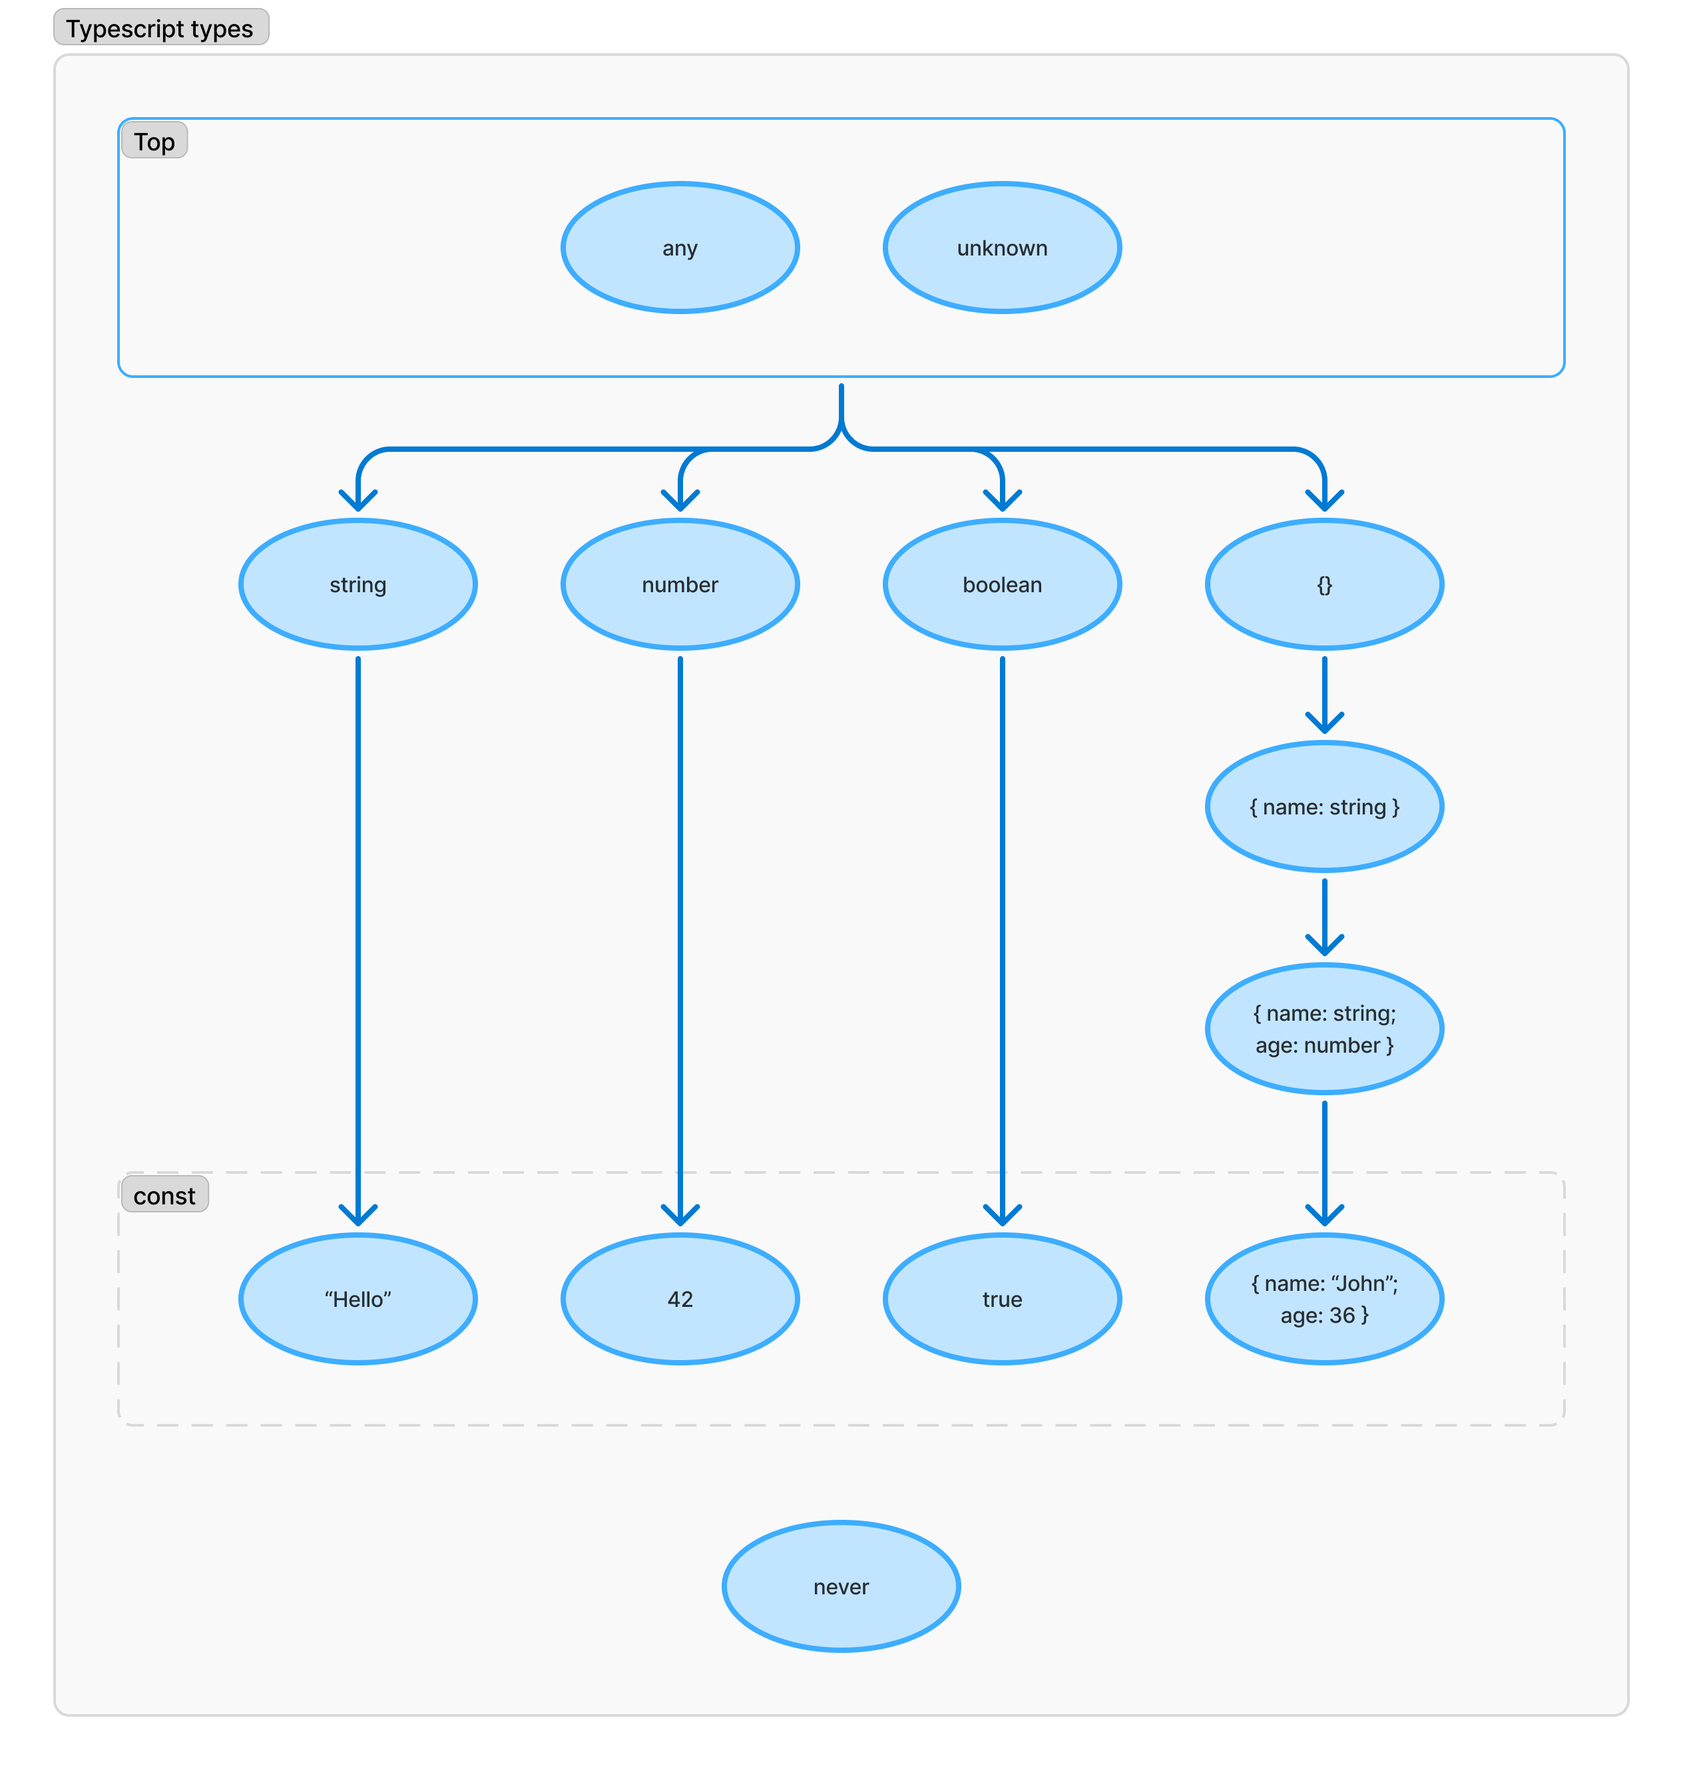
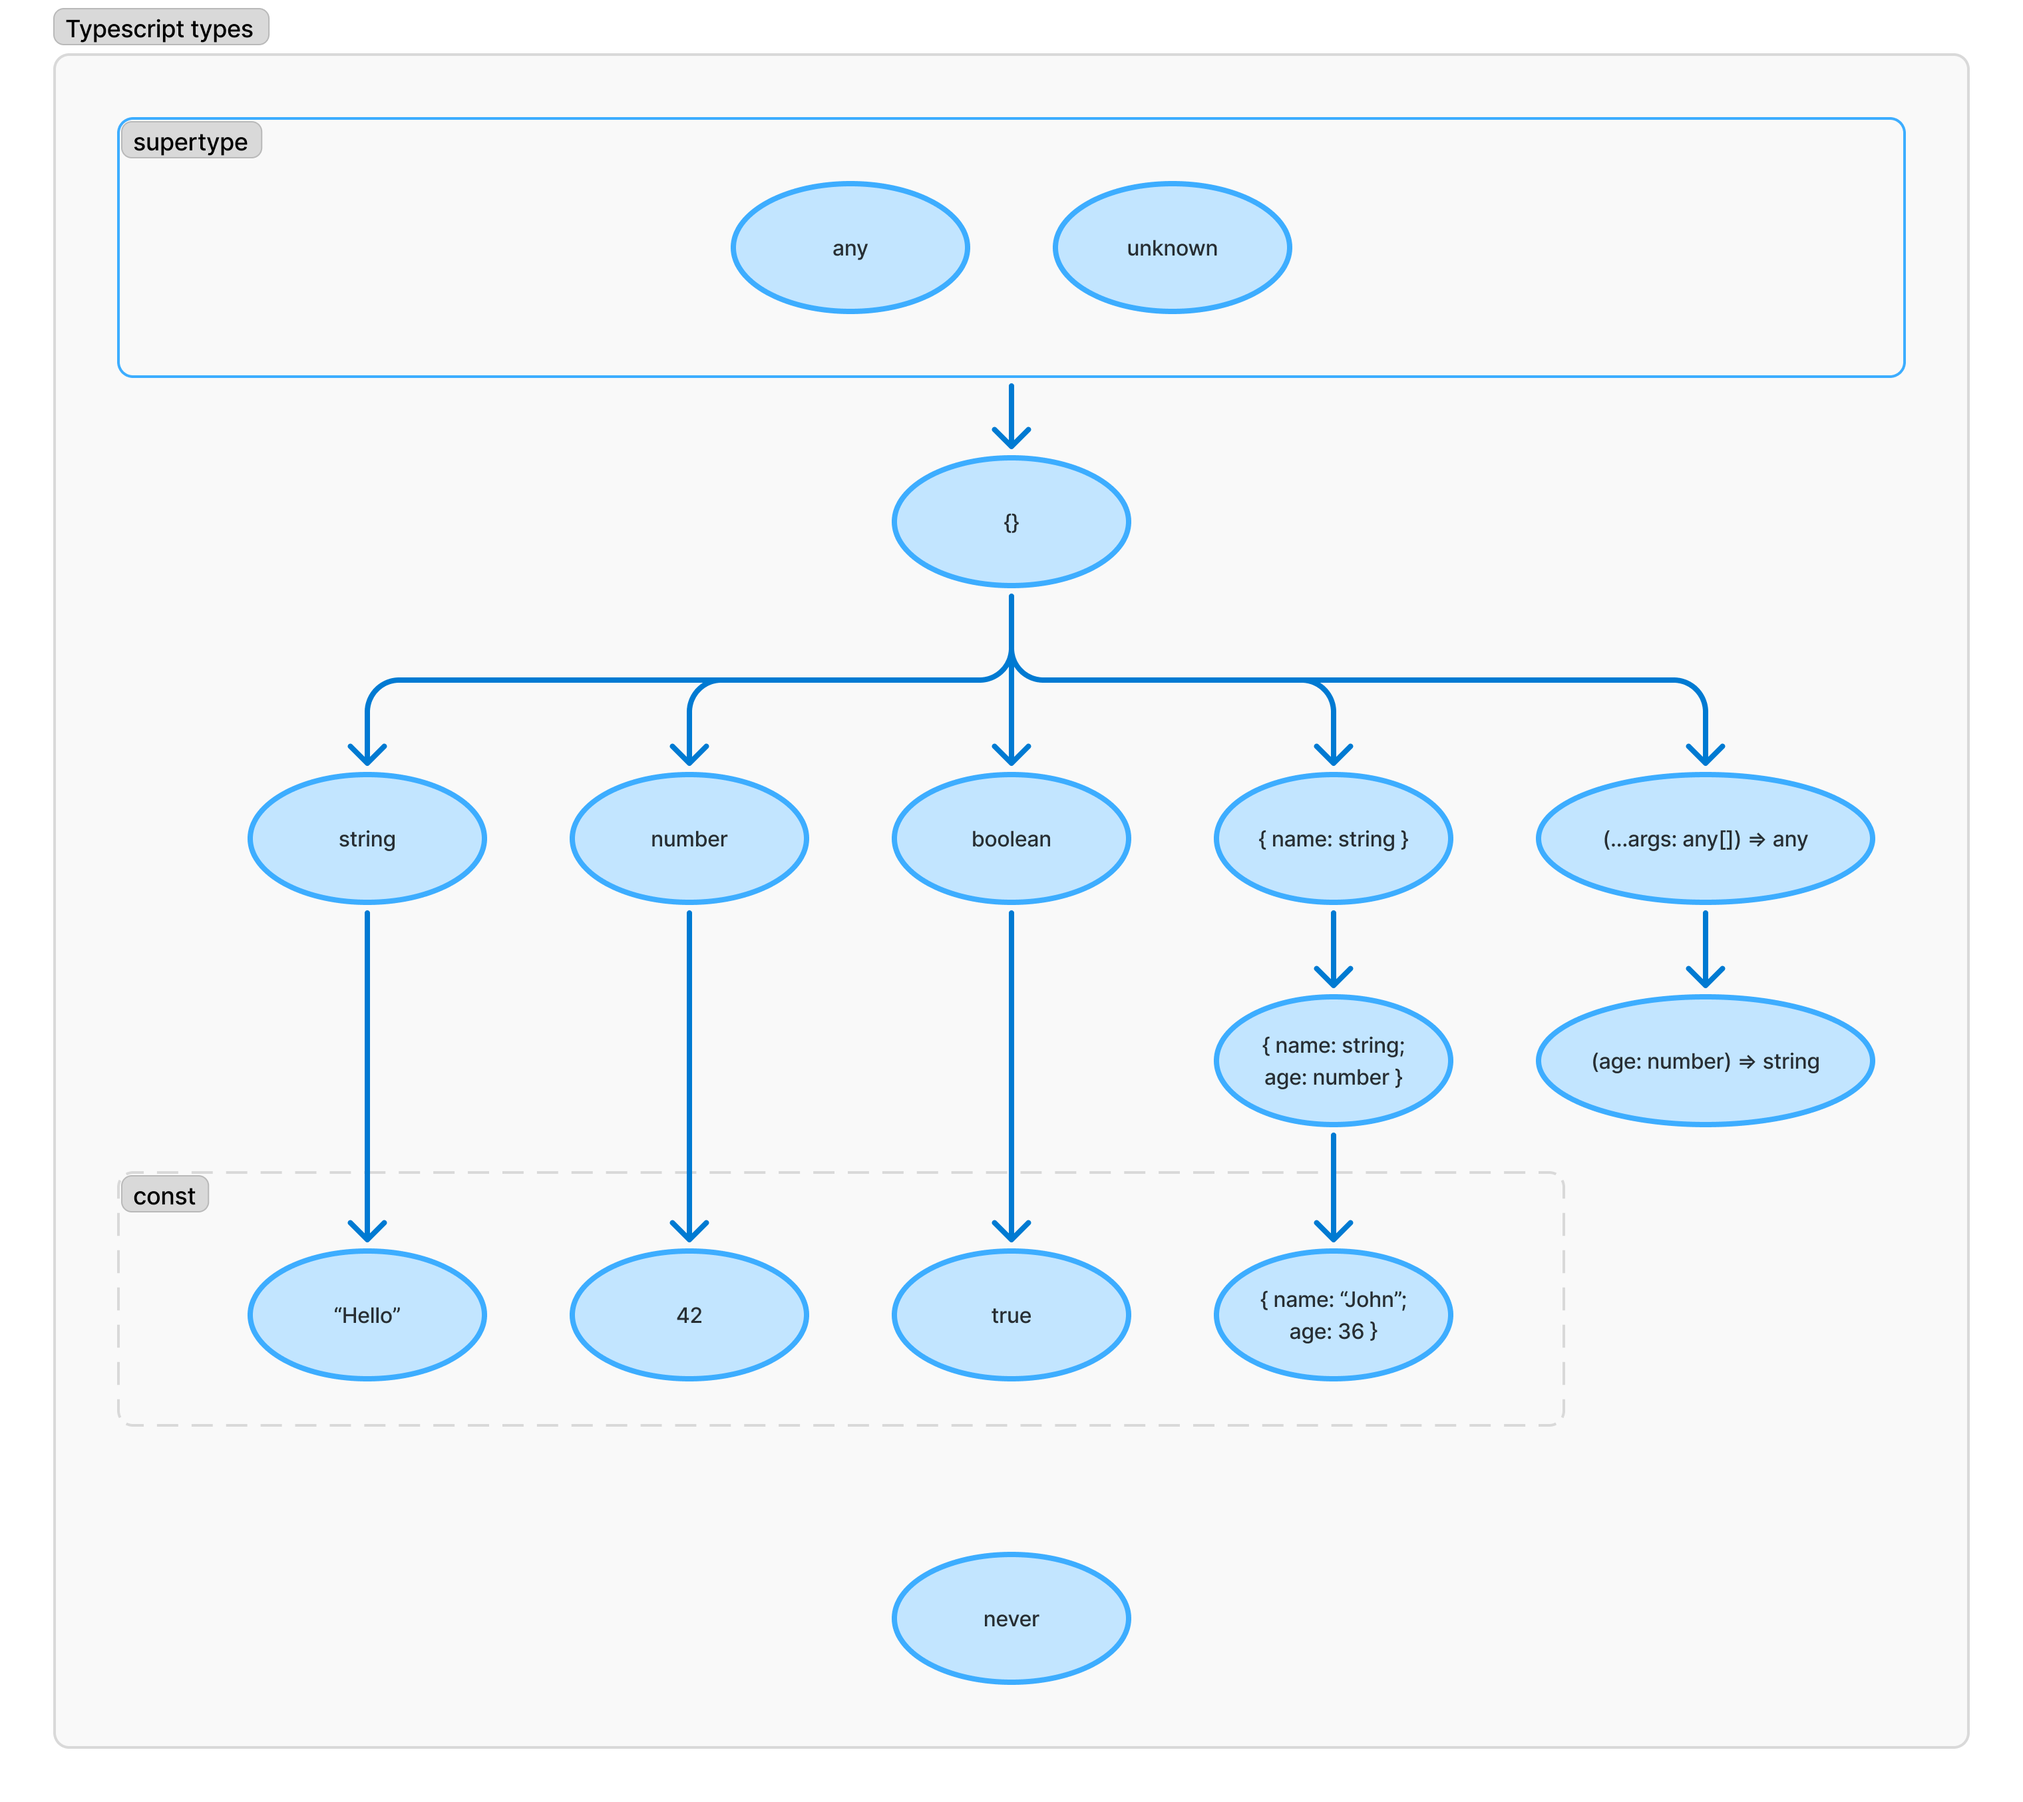
Update type hierarchy

diff --git a/docs/typescript/type-hierarchy.md b/docs/typescript/type-hierarchy.md
@@ -10,7 +10,9 @@ Tout en haut, nous avons :
 - `any` qui représente n'importe quel type et qui désactive toute aide que le compilateur pourrait vous apporter
 - `unknowm` qui représente n'importe quel type et qui vous forcera à verifier son type avant de l'utiliser
 
-L'étage du dessous représente les types primitifs du langage et l'object vide.
+L'étage du dessous représente l'object vide dont tous les types primitifs sont des descendants.
+
+En dessous on retrouve donc tous les types primitifs.
 
 Dans le cas de l'objet, plus vous allez lui ajouter d'attributs, plus il sera spécifique.
 
